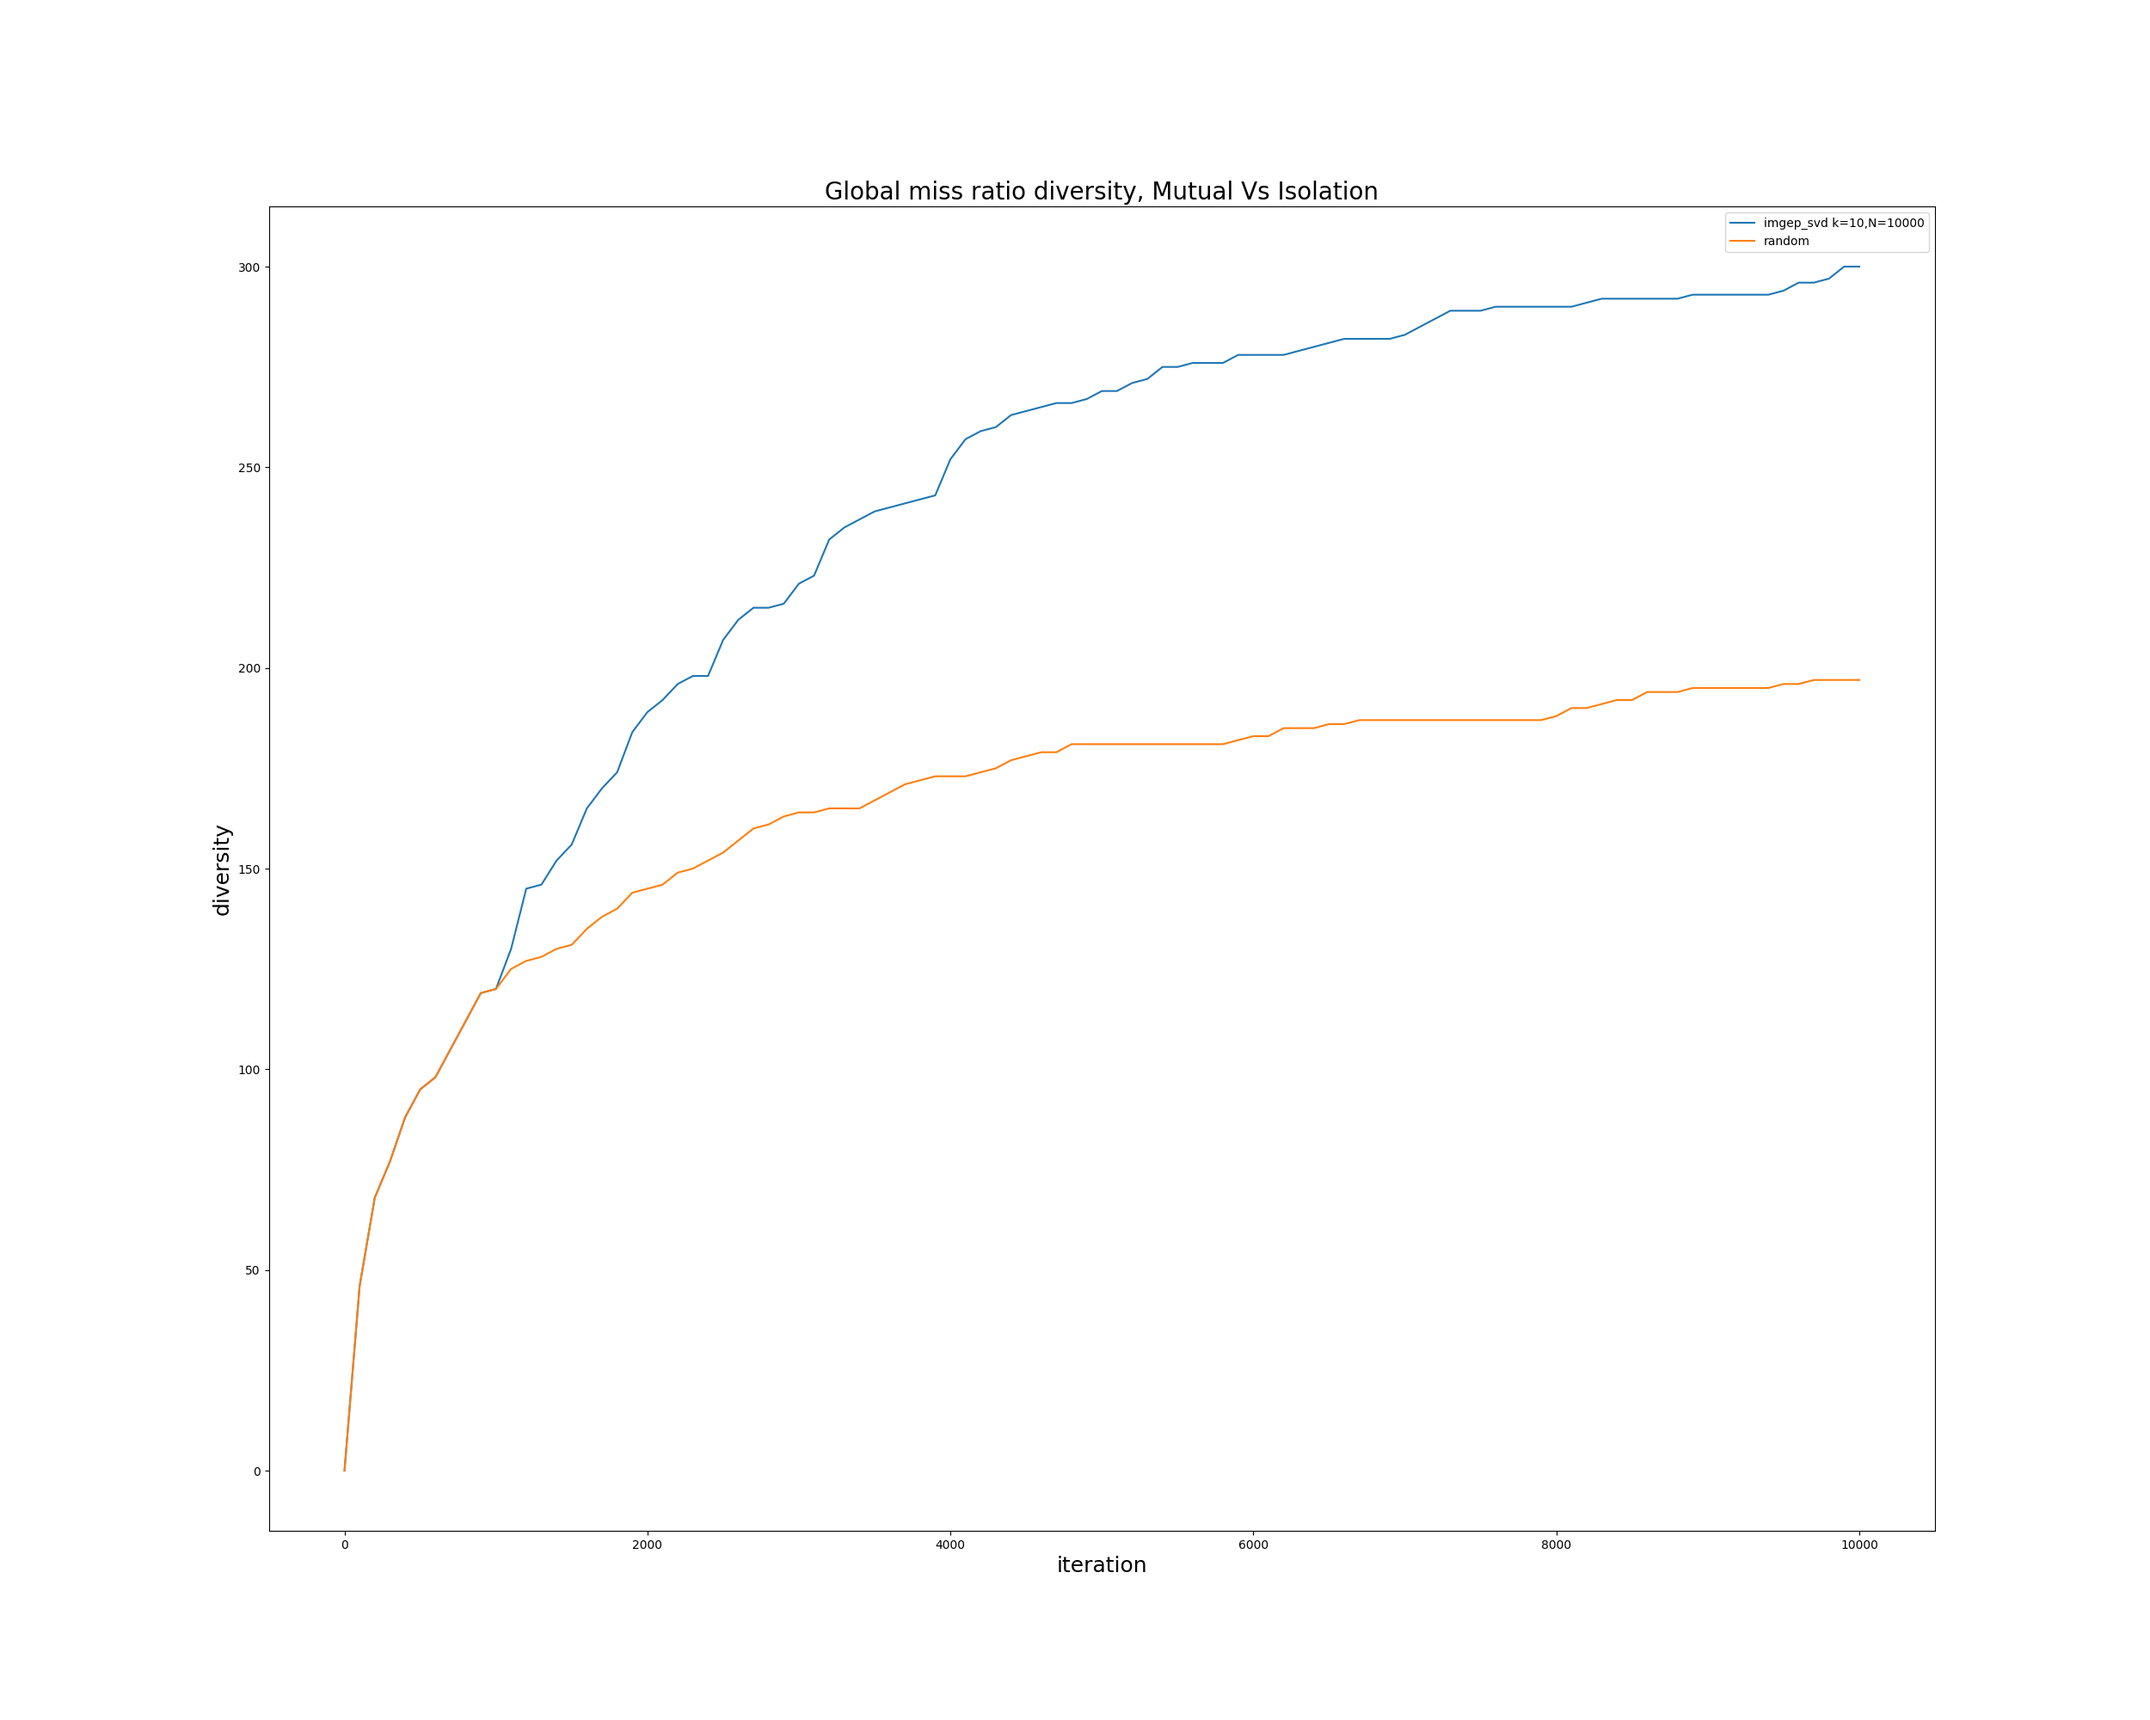
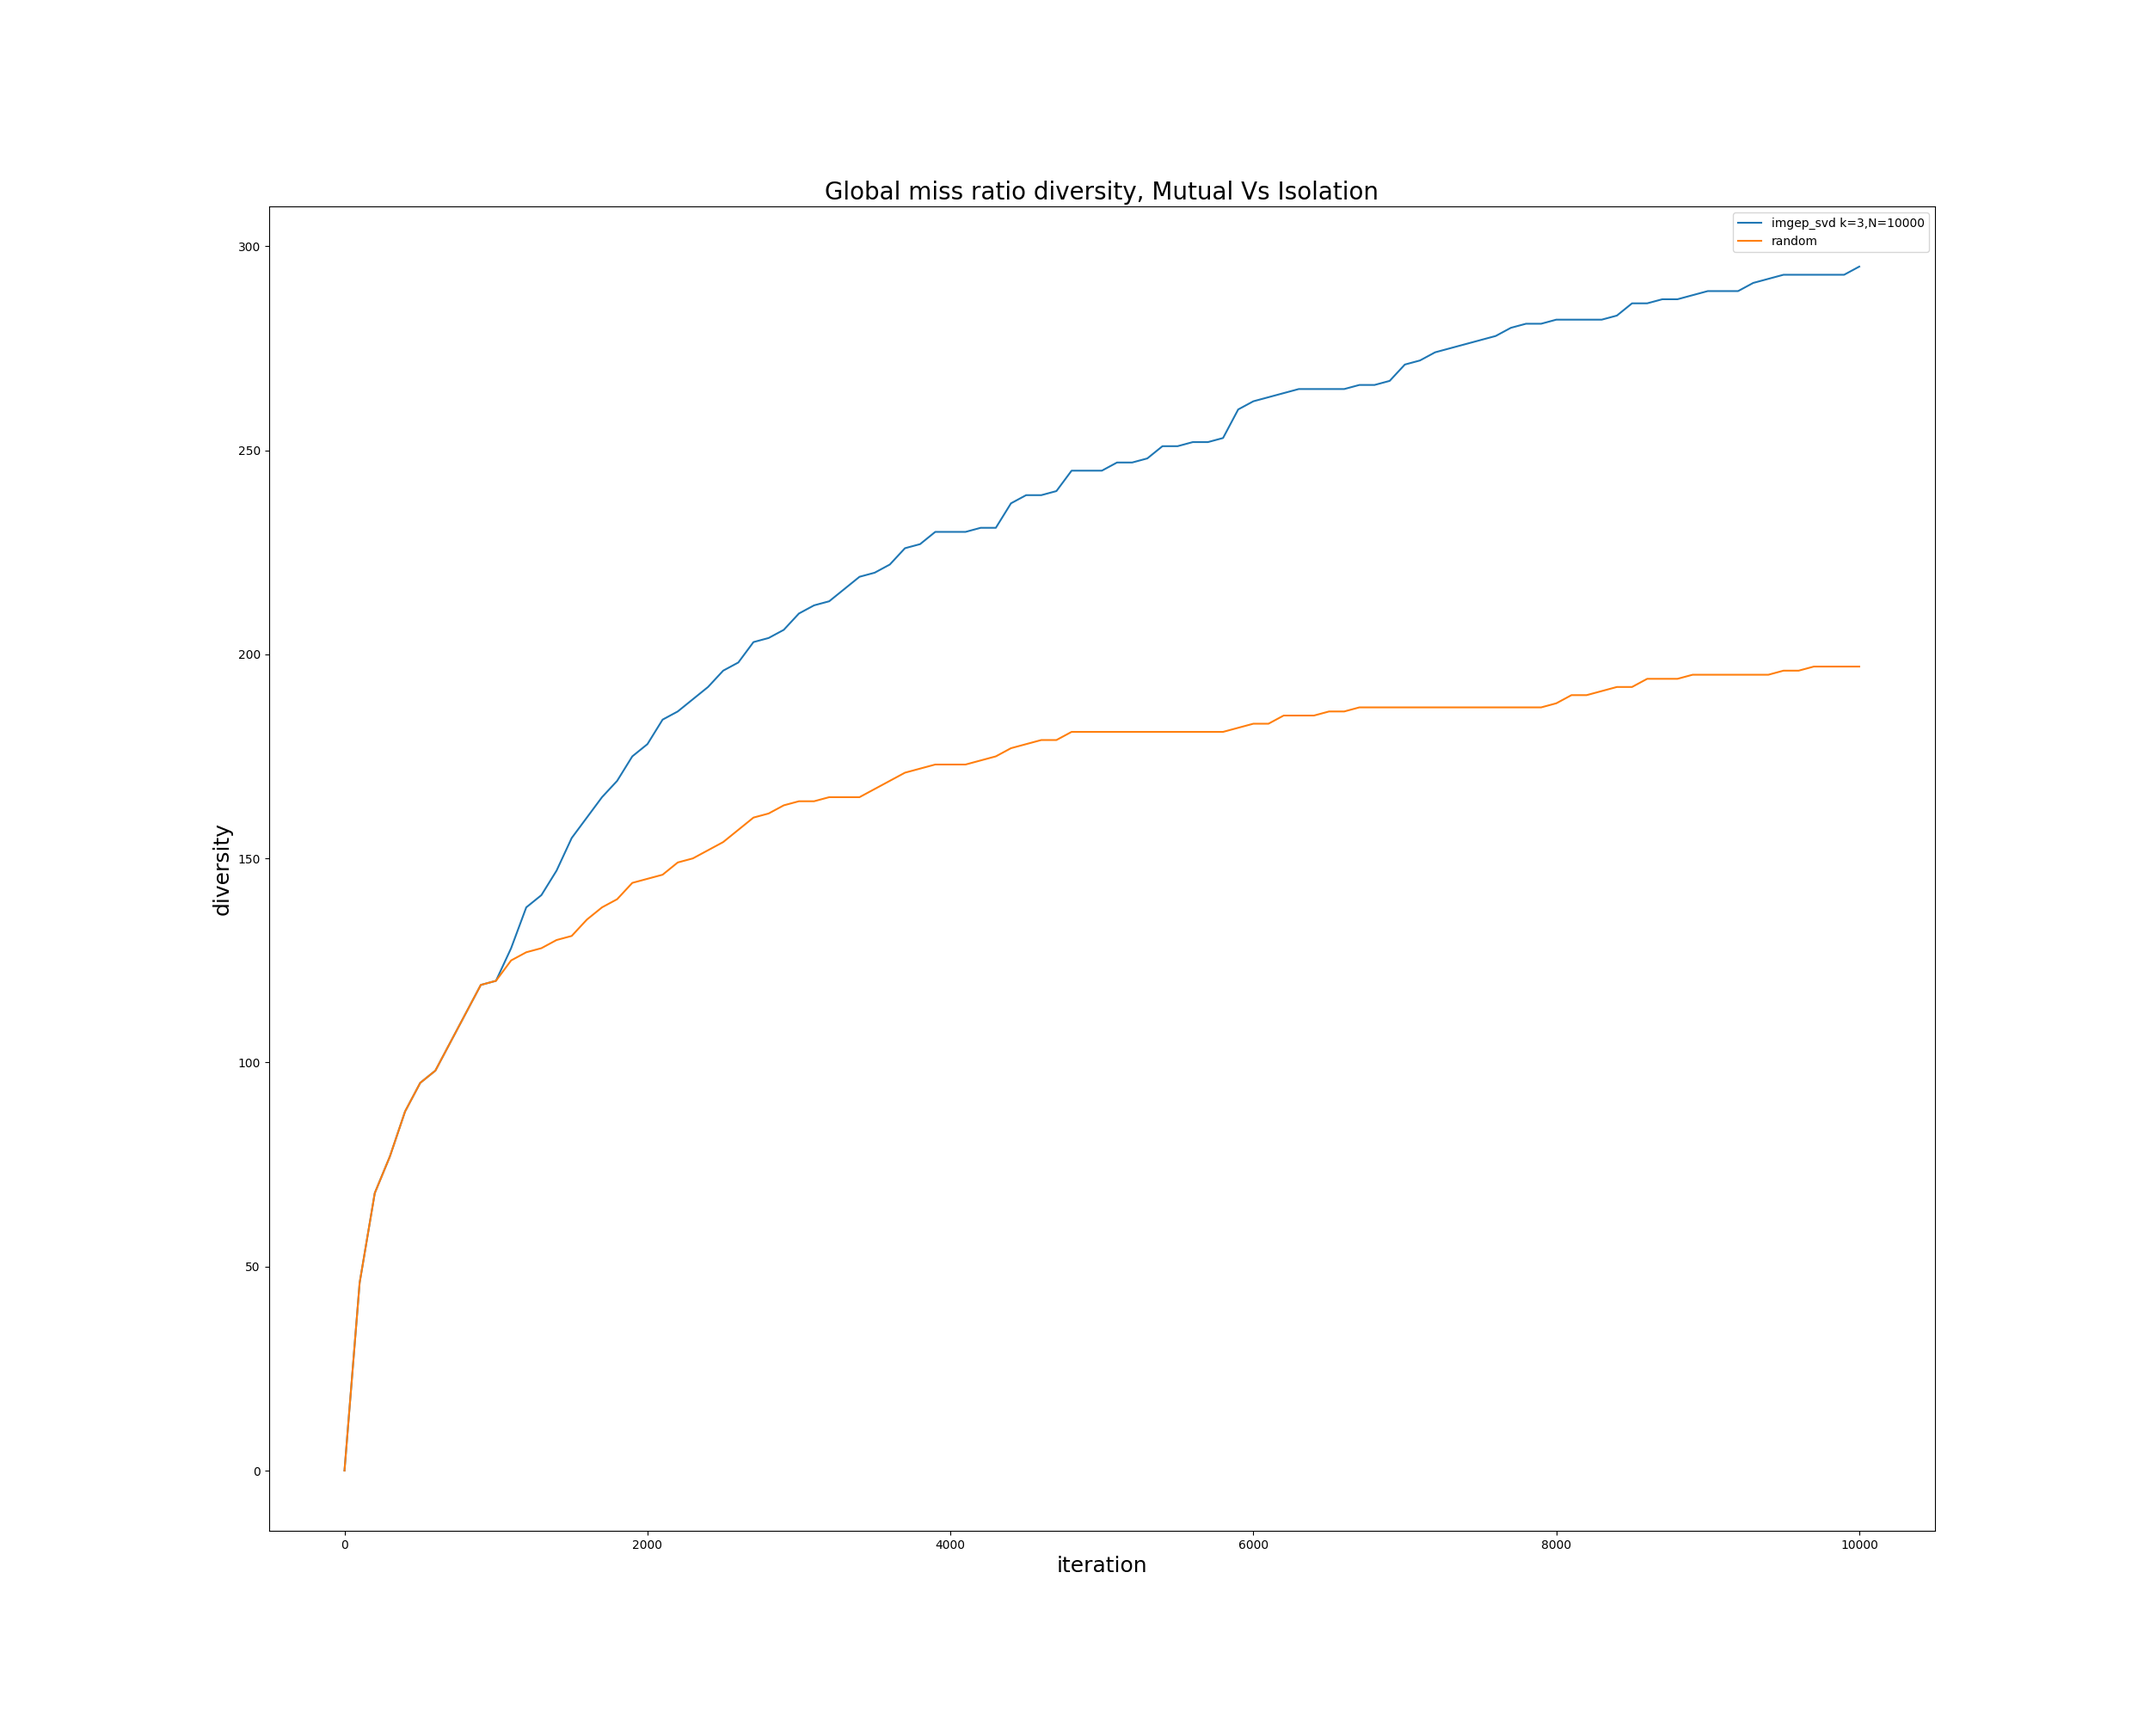
add images svd k3

diff --git a/visu_svd.py b/visu_svd.py
@@ -7,7 +7,7 @@ if __name__ == "__main__":
     image_folder ="all_images/svd"
     N = int(10000)
     N_init = 1000
-    ks = [10]
+    ks = [3]
     num_bank = 4
     num_addr = 20
     file_mix = lambda k,N: f"history_weak_{k}_N_{N}_0.pkl"
